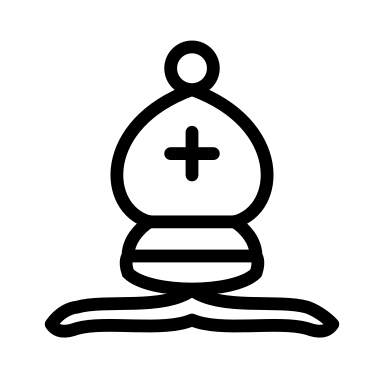
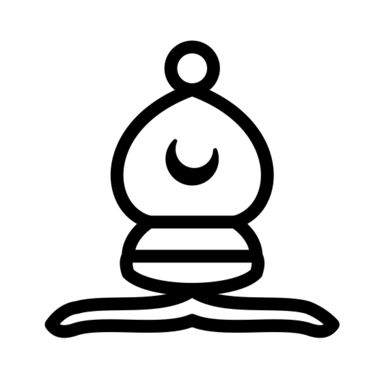
Hilal seti: filde artı (haç) yerine hilal
Test geri bildirimi: şahta hilal varken filde haç kalıyordu. Kaynak hilal_{w,b}B.svg,
lichess cburnett filinden; webp'ler 128/256/384 px yeniden üretildi.

diff --git a/lib/core/settings_store.dart b/lib/core/settings_store.dart
@@ -41,7 +41,7 @@ enum BoardTheme {
       };
 }
 
-/// Uygulamanın kendi taş seti: cburnett tabanlı, şah taşında haç yerine ay-yıldız.
+/// Uygulamanın kendi taş seti: cburnett tabanlı, şah ve filde haç yerine hilal.
 /// Görseller `assets/pieces/hilal/` altında (1x, 2x, 3x).
 final PieceAssets hilalAssets = {
   for (final kind in PieceKind.values)

diff --git a/CLAUDE.md b/CLAUDE.md
@@ -71,8 +71,8 @@ Android için JDK 17 gerekir (`flutter config --jdk-dir`).
 - Renk kararları `lib/core/theme.dart` başındaki yorumda: lacivert (akademi/odak), altın (başarı/vurgu),
   krem yüzey, durum renkleri yalnızca geri bildirimde. Modül kimlik renkleri `AppColors.lessons/puzzles/play/progress`.
 - Tahta ve taş seçimi `lib/core/settings_store.dart` (BoardTheme, PieceStyle); ekranlar `SettingsStore.instance.boardSettings` kullanır.
-- "Hilal" taş seti uygulamaya özel: `assets/pieces/hilal/` (cburnett tabanlı, şahta haç yerine hilal; yıldızsız, eksene ortalı, hafif eğik).
-  Kaynak SVG'ler aynı klasörde (`hilal_wK.svg`, `hilal_bK.svg`); değiştirince 1x/2x/3x webp'leri `convert` ile yeniden üret.
+- "Hilal" taş seti uygulamaya özel: `assets/pieces/hilal/` (cburnett tabanlı, şahta haç ve filde artı yerine hilal; yıldızsız, eksene ortalı, hafif eğik).
+  Kaynak SVG'ler aynı klasörde (`hilal_{w,b}K.svg`, `hilal_{w,b}B.svg`); değiştirince 1x/2x/3x webp'leri `magick` ile yeniden üret (bkz. klasördeki README).
 - Ortak parçalar: `StatusBanner` (durum mesajı), `SectionHeader`.
 - Geri bildirim: `lib/core/feedback.dart` (audioplayers + HapticFeedback), sesler `assets/sounds/*.wav`
   (Python ile sentezlendi). Ayarlar'dan kapatılır.

diff --git a/README.md b/README.md
@@ -3,7 +3,7 @@
 Çocuklar ve yeni başlayanlar için Türkçe satranç öğrenme uygulaması. Flutter ile yazıldı; tahta ve kurallar lichess'in `chessground` ve `dartchess` paketleri, rakip Stockfish.
 
 - Dersler, tek ve iki hamlede mat bulmacaları, 5 seviyeli bilgisayar rakibi, ilerleme ve rozetler
-- 10 tahta teması, 9 taş seti; aralarında uygulamaya özel "Hilal" seti (şahta haç yerine hilal)
+- 10 tahta teması, 9 taş seti; aralarında uygulamaya özel "Hilal" seti (şahta ve filde haç yerine hilal)
 - Gizlilik: hiçbir veri toplanmaz, her şey cihazda kalır (`PRIVACY_POLICY.md`)
 
 Web sitesi ve gizlilik politikası: https://davutkeskin.github.io/chess-academy/ (kaynak `docs/`).

diff --git a/assets/pieces/hilal/README.md b/assets/pieces/hilal/README.md
@@ -1,6 +1,7 @@
 # Hilal taş seti
 
-Colin M.L. Burnett'in "cburnett" satranç taşlarından türetilmiştir; şah taşında haç yerine hilal kullanılır.
+Colin M.L. Burnett'in "cburnett" satranç taşlarından türetilmiştir; şah taşında haç, fil taşında gönyedeki artı yerine hilal kullanılır.
+Kaynaklar `hilal_{w,b}K.svg`, `hilal_{w,b}B.svg`; 1x/2x/3x webp'ler bunlardan `magick` ile (128/256/384 px) üretilir.
 
 - Özgün set: Colin M.L. Burnett (https://en.wikipedia.org/wiki/User:Cburnett), GPLv2 ya da sonraki sürüm
   (lichess'in lisans listesiyle aynı: https://github.com/lichess-org/lila/blob/master/COPYING.md).
